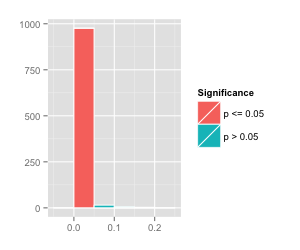
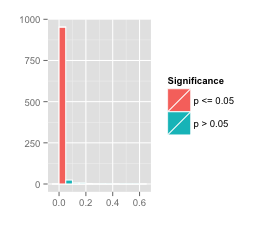
Warning: beware the p

Changed region(s): [[0.0593, 0.0622, 0.8889, 0.9333], [0.4148, 0.6533, 0.4444, 0.7156], [0.4148, 0.56, 0.4444, 0.6222]]

diff --git a/_posts/2014-04-26-warning-beware-the-p.md b/_posts/2014-04-26-warning-beware-the-p.md
@@ -1,0 +1,148 @@
+---
+layout: post
+title: "Warning: Beware the p!"
+description: ""
+author: stpyang
+tags: [statistics]
+category:
+---
+{% include JB/setup %}
+
+<meta property="og:image" content="/assets/images/bijou.jpg" />
+<img style="float:left; width: 300px; padding:10px" src="/assets/images/bijou.jpg" alt="Bijou beware!"/>
+
+We recently stumbled onto a delightful demonstration called [dance of the $$p$$
+values][dance] by statistical cognition researcher [Geoff Cumming][cumming]. If
+you have ten minutes to spare, we *highly recommend* that you watch this video.
+If you don't have ten minutes to spare, then we can save you some time and
+summarize the video in three words: "don't trust $$p$$."  In the video, Cumming
+sets up a series of experiments to demonstrate the fickleness of the $$p$$.  In
+this post we reproduce his demonstration in R.
+
+<!-- more -->
+
+The $$p$$ value is usually associated with a technique called [statistical
+hypothesis testing][testing], which is a sort of algorithmic litmus test to see
+if the results of an experiment is "statistically significant." The reasoning
+behind $$p$$ values dates back to the 1770s, though they didn't become popular
+until [Ronald Fisher][fisher] re-introduced them around 1920. Statistical
+hypothesis testing involves choosing a [null hypothesis][null] (often called
+$$H_0$$) and then calculating a $$p$$ value, which is the ***probability of a
+result at least as extreme as the one observed, if the null hypothesis is
+true.*** In mathspeak, we express this as:
+
+$$p = P(X \geq x_0 \mid H_0).$$
+
+If the calculated $$p$$ value is below a certain threshold, usually $$p \leq
+0.05$$, one rejects the null hypothesis and declares the results significant.
+
+The main problem with $$p$$ values is that they are easy to calculate and hard
+to understand. Indeed, we see far more literature dedicated to [explaining what
+$$p$$ values are not][dozen] than to what $$p$$ values actually are. Despite
+this, $$p$$ values are quoted everywhere in areas such as medical research, and
+are just as often miscalculated, misinterpreted, or downright abused. Even
+worse, $$p$$ values are an overrepresented ingredient in many important
+decisions, such as the difference between publishing a study or not, decisions
+about receiving tenure or not, or decisions involving public policy.
+
+Cumming's demonstration consists of a series of simulated experiments. He takes
+samples from two normal distributions with different means, and calculates the
+$$p$$ value corresponding to the difference of the means (his null hypothesis is,
+presumably, that the means of the two distributions are the same).  Then he does
+it again, and again and again. The results are astonishing. His first three
+simulations yield $$p$$ values of 0.000, 0.125, and 0.504.  This can be
+interpreted as one highly significant result and two results of no statistical
+significance, and this is all done without changing any parameters of the
+experiment.
+
+Here we replicate his results in R.  We generate a control group of $$n=32$$
+samples from a $$N(50, 20)$$ distribution, and a test group of $$n=32$$ samples
+from a $$N(60, 20)$$ distribution.  Our null hypothesis $$H_0$$ is that the two
+populations have the same mean.
+
+We secretly know that the two populations were artificially generated from
+standard normal variables with prescribed parameters, but for the rest of the
+experiment we must ignore this fact.  We calculate the *sample means* $$m_1$$
+and $$m_2$$ and *sample variances* $$s_1^2$$ and $$s_2^2$$ of both groups, and
+use these to create a $$t$$-statistic given by the formula
+
+$$t=\frac{(m_1-m_2)-0}{\sqrt{\frac{s_1^2}{n}+\frac{s_2^2}{n}}}.$$
+
+This statistic is one sample from a distribution equal to [Student's
+t-distribution][student] with $$2(n-1)$$ degrees of freedom.  The $$p$$ value is
+then
+
+<div>
+$$p=F(-\left|t\right|)+1-F(\left|t\right|)$$
+</div>
+
+where $$F$$ is the cdf of the $$t$$-distribution. This expresses the probability
+that the absolute value of a random sample from the $$t$$-distribution is at
+least $$\left|m_1-m_2\right|$$. The function $$F$$ is given by a formula too
+ugly to reprint here but accessible in R by invoking the ```pt``` function.
+
+<pre>
+{% include data/pValues.r %}
+
+=== output below ===
+
+[1] 507
+[1] 493
+     Min.   1st Qu.    Median      Mean   3rd Qu.      Max.
+0.0000004 0.0097810 0.0492300 0.1442000 0.1667000 0.9846000
+</pre>
+
+This yields the pretty histogram below.
+
+<img style="float:middle; width: 375px; padding:10px" src="/assets/data/pHist_32.png" alt=""/>
+
+In particular, we see that among 1000 simulated experiments, we have
+
+* 507 simulations with $$p$$ values less than or equal to 0.05, thus
+ statistically significant by convention
+
+* 493 with $$p$$ values that are not significant by the same convention
+
+* A minimum $$p$$ value of 0.0000004
+
+* A maximum $$p$$ value of 0.9846
+
+This yields an almost 50/50 split between "significant" and "not significant".
+With a sample size of only 32, the $$p$$ value is not a reliable measure of
+anything!
+
+Unfortunately, it is not uncommon for experimental studies e.g. clinical trials
+to be this small. This has led to an overabundance of published medical studies
+with irreproducible results. Sometimes this the case for legitimate reasons such
+as cost and/or availability, and other times the researchers simply don't know
+or don't care about statistical rigor.
+
+Not surprisingly, changing the sample size to 10 or 100 makes the histogram of
+simulated $$p$$ values much wider or much tighter. We ran our simulated
+experiments again, changing only the value of ```samplesPerExperiment``` to 10
+and 100. This yielded the following two histograms for $$p$$ values.
+
+<img style="float:left; width: 270px; padding:10px" src="/assets/data/pHist_10.png" alt=""/>
+<img style="float:right; width: 270px; padding:10px" src="/assets/data/pHist_100.png" alt=""/>
+
+The small sample size 10 had 180 out of 1000 simulations yielding a $$p$$
+value of below 0.05. The histogram of $$p$$ values is on the left. Although
+these could be labelled as "statistically significant" by an unscrupulous
+researcher, we claim that none of the results are particularly significant; they
+just happen to be lucky.
+
+The larger sample size 100 jad 953 out of 1000 simulations yielding a $$p$$
+value of below 0.05. The histogram of $$p$$ values is on the right. The $$p$$
+value in this case is much more reliable. Perhaps we should revise our original
+statement to say "don't trust $$p$$ *for small experiments*."
+
+We encourage our readers to tinker with our R code above to generate more
+histograms of $$p$$ values under varying conditions.
+
+[dance]: https://www.youtube.com/watch?v=ez4DgdurRPg
+[cumming]: http://thenewstatistics.com
+[testing]: https://en.wikipedia.org/wiki/Statistical_hypothesis_testing
+[fisher]: https://en.wikipedia.org/wiki/Ronald_Fisher
+[null]: https://en.wikipedia.org/wiki/Null_hypothesis
+[dozen]: http://www.tc.umn.edu/~alonso/Goodman_Semin_Hemat_2008.pdf
+[student]: https://en.wikipedia.org/wiki/Student%27s_t-distribution
